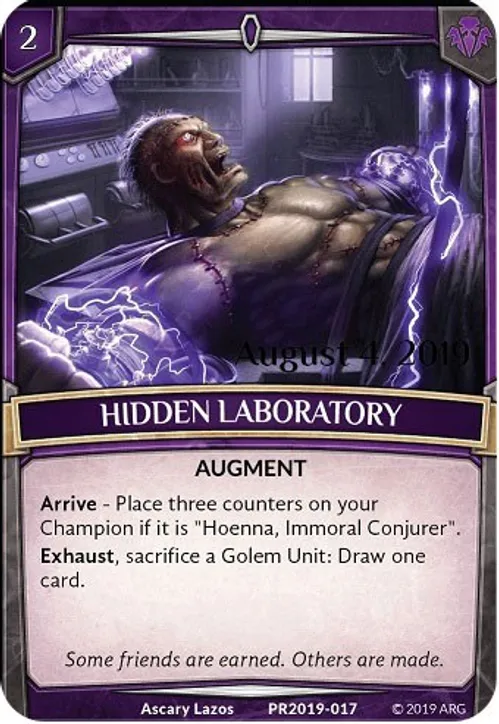
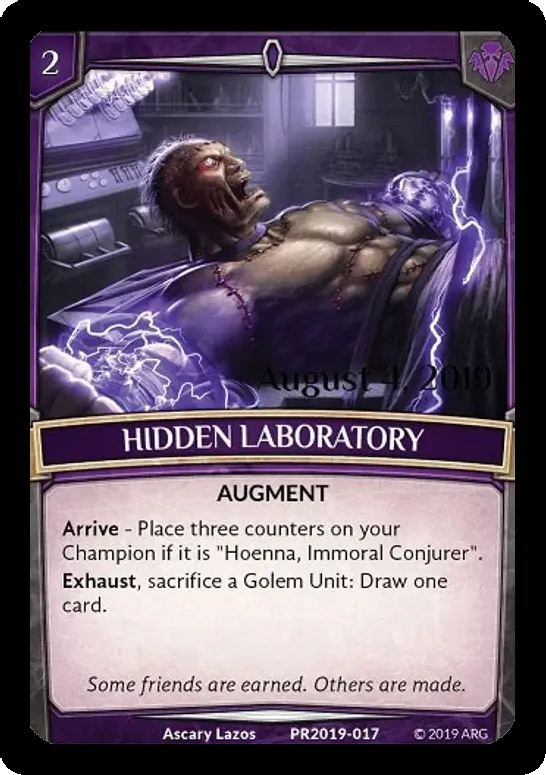
adding files

diff --git a/images/python-scripts/chaos.py b/images/python-scripts/chaos.py
@@ -10,79 +10,91 @@ def convertImage(filename):
     datas = img.getdata()
     width, height = img.size
 
-    img = img.crop((8, 6, width - 6, height - 5))
+    img = img.crop((1, 3, width - 1, height - 2))
     img = img.convert("RGBA")
-    check = img.getdata()
-    datas = list(img.getdata())
+    datas = img.getdata()
     width, height = img.size
     newData = []
 
-    tc = True
-    for y in range(55):
-        for x in range(55):
-            pixels = check.getpixel((x, y))
-            if pixels[0] >= 240 and pixels[1] >= 240 and pixels[2] >= 240 and tc:
-                pixel_list = list(datas[y * img.width + x])
-                # Change the index value of the pixel in the list.
-                pixel_list[0] = 0
-                pixel_list[1] = 0
-                pixel_list[2] = 0
-                pixel_list[3] = 255
-                # Convert the list pixel value back to a tuple.
-                datas[y * img.width + x] = tuple(pixel_list)
+    for y in range(height):
+        for x in range(width):
+            pixel = datas.getpixel((x, y))
+            if x in range(9) and y in range(10):
+                if x in range(9) and y == 0:
+                    newData.append((0, 0, 0, 255))
+                elif x in range(6) and y == 1:
+                    newData.append((0, 0, 0, 255))
+                elif x in range(5) and y == 2:
+                    newData.append((0, 0, 0, 255))
+                elif x in range(4) and y == 3:
+                    newData.append((0, 0, 0, 255))
+                elif x in range(3) and y == 4:
+                    newData.append((0, 0, 0, 255))
+                elif x in range(2) and y == 5:
+                    newData.append((0, 0, 0, 255))
+                elif x in range(2) and y == 6:
+                    newData.append((0, 0, 0, 255))
+                elif x in range(1) and y == 7:
+                    newData.append((0, 0, 0, 255))
+                elif x in range(1) and y == 8:
+                    newData.append((0, 0, 0, 255))
+                else:
+                    newData.append(pixel)
+            elif x in range(width - 9, width) and y in range(10):
+                if x in range(width - 9, width) and y == 0:
+                    newData.append((0, 0, 0, 255))
+                elif x in range(width - 6, width) and y == 1:
+                    newData.append((0, 0, 0, 255))
+                elif x in range(width - 5, width) and y == 2:
+                    newData.append((0, 0, 0, 255))
+                elif x in range(width - 4, width) and y == 3:
+                    newData.append((0, 0, 0, 255))
+                elif x in range(width - 3, width) and y == 4:
+                    newData.append((0, 0, 0, 255))
+                elif x in range(width - 2, width) and y == 5:
+                    newData.append((0, 0, 0, 255))
+                elif x in range(width - 2, width) and y == 6:
+                    newData.append((0, 0, 0, 255))
+                elif x in range(width - 1, width) and y == 7:
+                    newData.append((0, 0, 0, 255))
+                elif x in range(width - 1, width) and y == 8:
+                    newData.append((0, 0, 0, 255))
+                else:
+                    newData.append(pixel)
+            elif x in range(4) and y in range(height - 6, height):
+                if x in range(4) and y == height - 1:
+                    newData.append((0, 0, 0, 255))
+                elif x in range(3) and y == height - 2:
+                    newData.append((0, 0, 0, 255))
+                elif x in range(2) and y == height - 3:
+                    newData.append((0, 0, 0, 255))
+                elif x in range(2) and y == height - 4:
+                    newData.append((0, 0, 0, 255))
+                elif x in range(1) and y == height - 5:
+                    newData.append((0, 0, 0, 255))
+                elif x in range(1) and y == height - 6:
+                    newData.append((0, 0, 0, 255))
+                else:
+                    newData.append(pixel)
+            elif x in range(width - 4, width) and y in range(height - 6, height):
+                if x in range(width - 4, width) and y == height - 1:
+                    newData.append((0, 0, 0, 255))
+                elif x in range(width - 3, width) and y == height - 2:
+                    newData.append((0, 0, 0, 255))
+                elif x in range(width - 2, width) and y == height - 3:
+                    newData.append((0, 0, 0, 255))
+                elif x in range(width - 2, width) and y == height - 4:
+                    newData.append((0, 0, 0, 255))
+                elif x in range(width - 1, width) and y == height - 5:
+                    newData.append((0, 0, 0, 255))
+                elif x in range(width - 1, width) and y == height - 6:
+                    newData.append((0, 0, 0, 255))
+                else:
+                    newData.append(pixel)
             else:
-                tc = False
-        tc = True
+                newData.append(pixel)
 
-    for y in range(55):
-        for x in reversed(range(width - 55, width)):
-            pixels = check.getpixel((x, y))
-            if pixels[0] >= 240 and pixels[1] >= 240 and pixels[2] >= 240 and tc:
-                pixel_list = list(datas[y * img.width + x])
-                # Change the index value of the pixel in the list.
-                pixel_list[0] = 0
-                pixel_list[1] = 0
-                pixel_list[2] = 0
-                pixel_list[3] = 255
-                # Convert the list pixel value back to a tuple.
-                datas[y * img.width + x] = tuple(pixel_list)
-            else:
-                tc = False
-        tc = True
-
-    for y in range(height - 55, height):
-        for x in range(55):
-            pixels = check.getpixel((x, y))
-            if pixels[0] >= 240 and pixels[1] >= 240 and pixels[2] >= 240 and tc:
-                pixel_list = list(datas[y * img.width + x])
-                # Change the index value of the pixel in the list.
-                pixel_list[0] = 0
-                pixel_list[1] = 0
-                pixel_list[2] = 0
-                pixel_list[3] = 255
-                # Convert the list pixel value back to a tuple.
-                datas[y * img.width + x] = tuple(pixel_list)
-            else:
-                tc = False
-        tc = True
-
-    for y in range(height - 55, height):
-        for x in reversed(range(width - 55, width)):
-            pixels = check.getpixel((x, y))
-            if pixels[0] >= 240 and pixels[1] >= 240 and pixels[2] >= 240 and tc:
-                pixel_list = list(datas[y * img.width + x])
-                # Change the index value of the pixel in the list.
-                pixel_list[0] = 0
-                pixel_list[1] = 0
-                pixel_list[2] = 0
-                pixel_list[3] = 255
-                # Convert the list pixel value back to a tuple.
-                datas[y * img.width + x] = tuple(pixel_list)
-            else:
-                tc = False
-        tc = True
-
-    img.putdata(datas)
+    img.putdata(newData)
 
     im3 = Image.new(mode="RGB", size=(width + 61, height + 62))
     Image.Image.paste(im3, img, (30, 31))
@@ -100,6 +112,7 @@ def convertImage(filename):
     x1, y1 = 593, 843
     x2, y2 = 593, 843
 
+    newData = []
     # apply the fixed border
     for y in range(height1):
         for x in range(width1):
@@ -181,7 +194,7 @@ def findLeftSide(datas, wi, hi):
     for x in range(wi):
         for y in range(hi):
             pixel = datas.getpixel((x, y))
-            if pixel[0] < 88 and pixel[1] < 88 and pixel[2] < 88:
+            if pixel[0] < 230 and pixel[1] < 230 and pixel[2] < 230:
                 return x
 
 
@@ -189,7 +202,7 @@ def findRightSide(datas, wi, hi):
     for x in reversed(range(wi)):
         for y in range(hi):
             pixel = datas.getpixel((x, y))
-            if pixel[0] < 88 and pixel[1] < 88 and pixel[2] < 88:
+            if pixel[0] < 230 and pixel[1] < 230 and pixel[2] < 230:
                 return x
 
 
@@ -197,7 +210,7 @@ def findTopSide(datas, wi, hi):
     for y in range(hi):
         for x in range(wi):
             pixel = datas.getpixel((x, y))
-            if pixel[0] < 88 and pixel[1] < 88 and pixel[2] < 88:
+            if pixel[0] < 230 and pixel[1] < 230 and pixel[2] < 230:
                 return y
 
 
@@ -205,7 +218,7 @@ def findBottomSide(datas, wi, hi):
     for y in reversed(range(hi)):
         for x in range(wi):
             pixel = datas.getpixel((x, y))
-            if pixel[0] < 88 and pixel[1] < 88 and pixel[2] < 88:
+            if pixel[0] < 230 and pixel[1] < 230 and pixel[2] < 230:
                 return y
 
 
@@ -222,8 +235,4 @@ def findBottomSide(datas, wi, hi):
 # convertImage("../Expansion-Pack-Generations/198209.webp")
 # convertImage("../Expansion-Pack-Generations/198213.webp")
 
-convertImage("../Expansion-Pack-Generations/corona-the-spirit-ruby.webp")
-
-convertImage("../Expansion-Pack-Generations/fizzy-the-spirit-sapphire.webp")
-
-convertImage("../Expansion-Pack-Generations/kyte-the-spirit-emerald.webp")
+convertImage("../Promos/silvermist-phoenix.webp")

diff --git a/images/python-scripts/borders.py b/images/python-scripts/borders.py
@@ -102,6 +102,4 @@ def findBottomSide(datas, wi, hi):
 #     if ".webp" in filename:
 #         convertImage(directory + filename)
 
-convertImage("../Promos/the-great-magimaze.webp")
-convertImage("../Promos/nori-the-first-warlock.webp")
-convertImage("../Promos/unger-the-conjurers-adversary.webp")
+convertImage("../Promos/argent-shard-1.webp")
